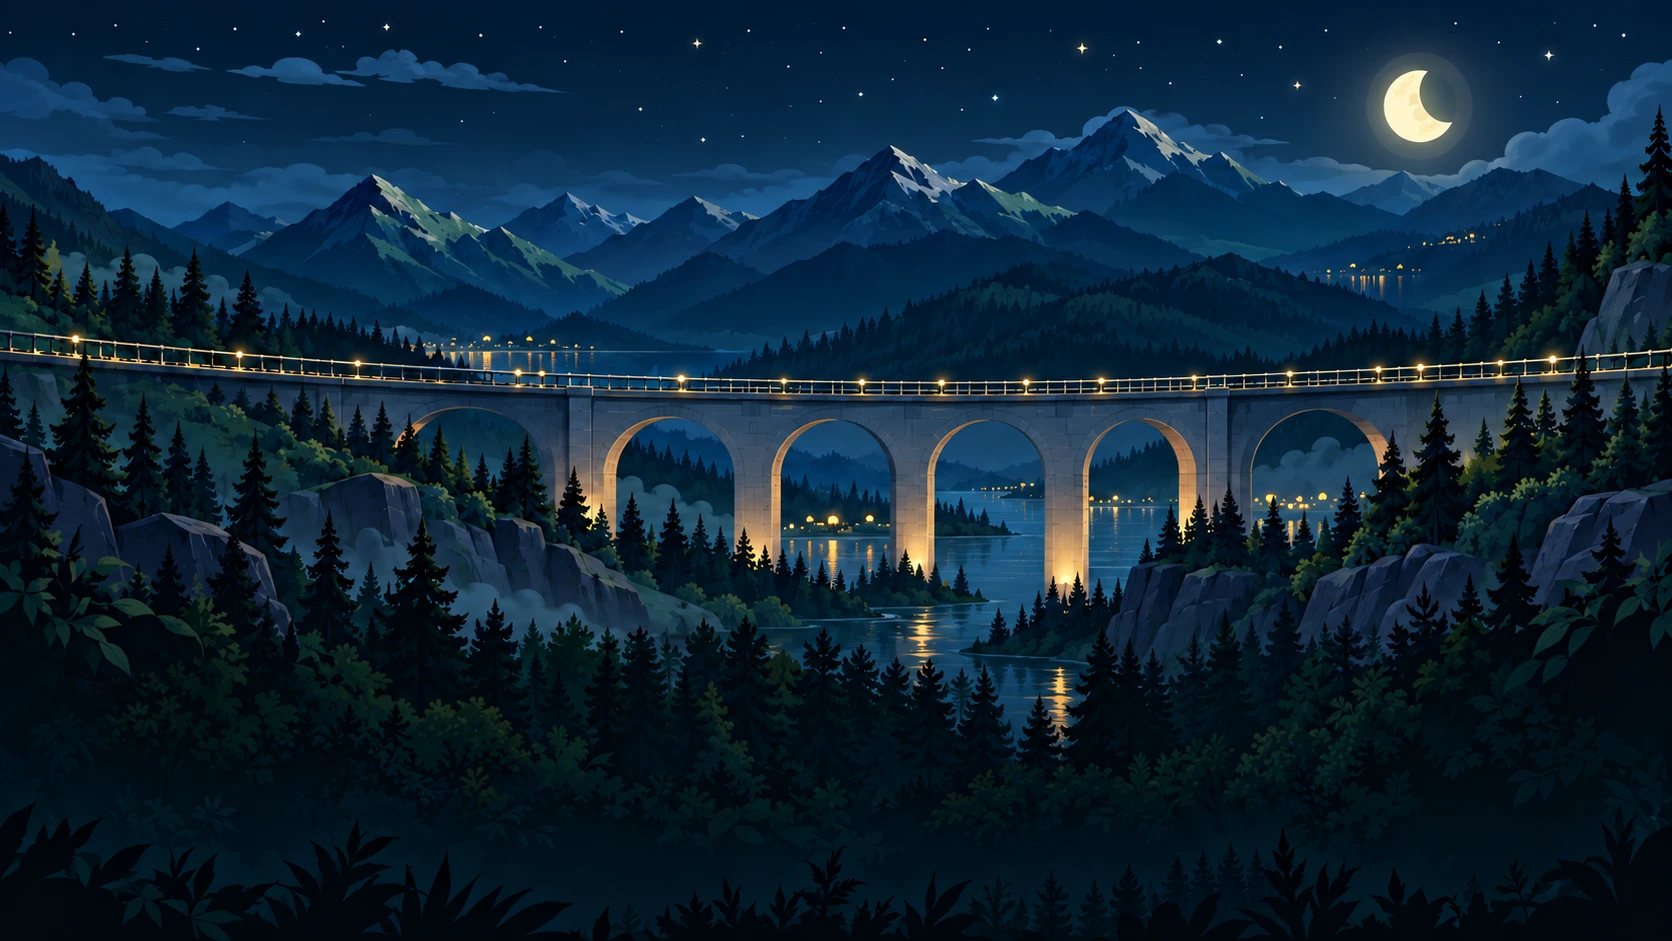
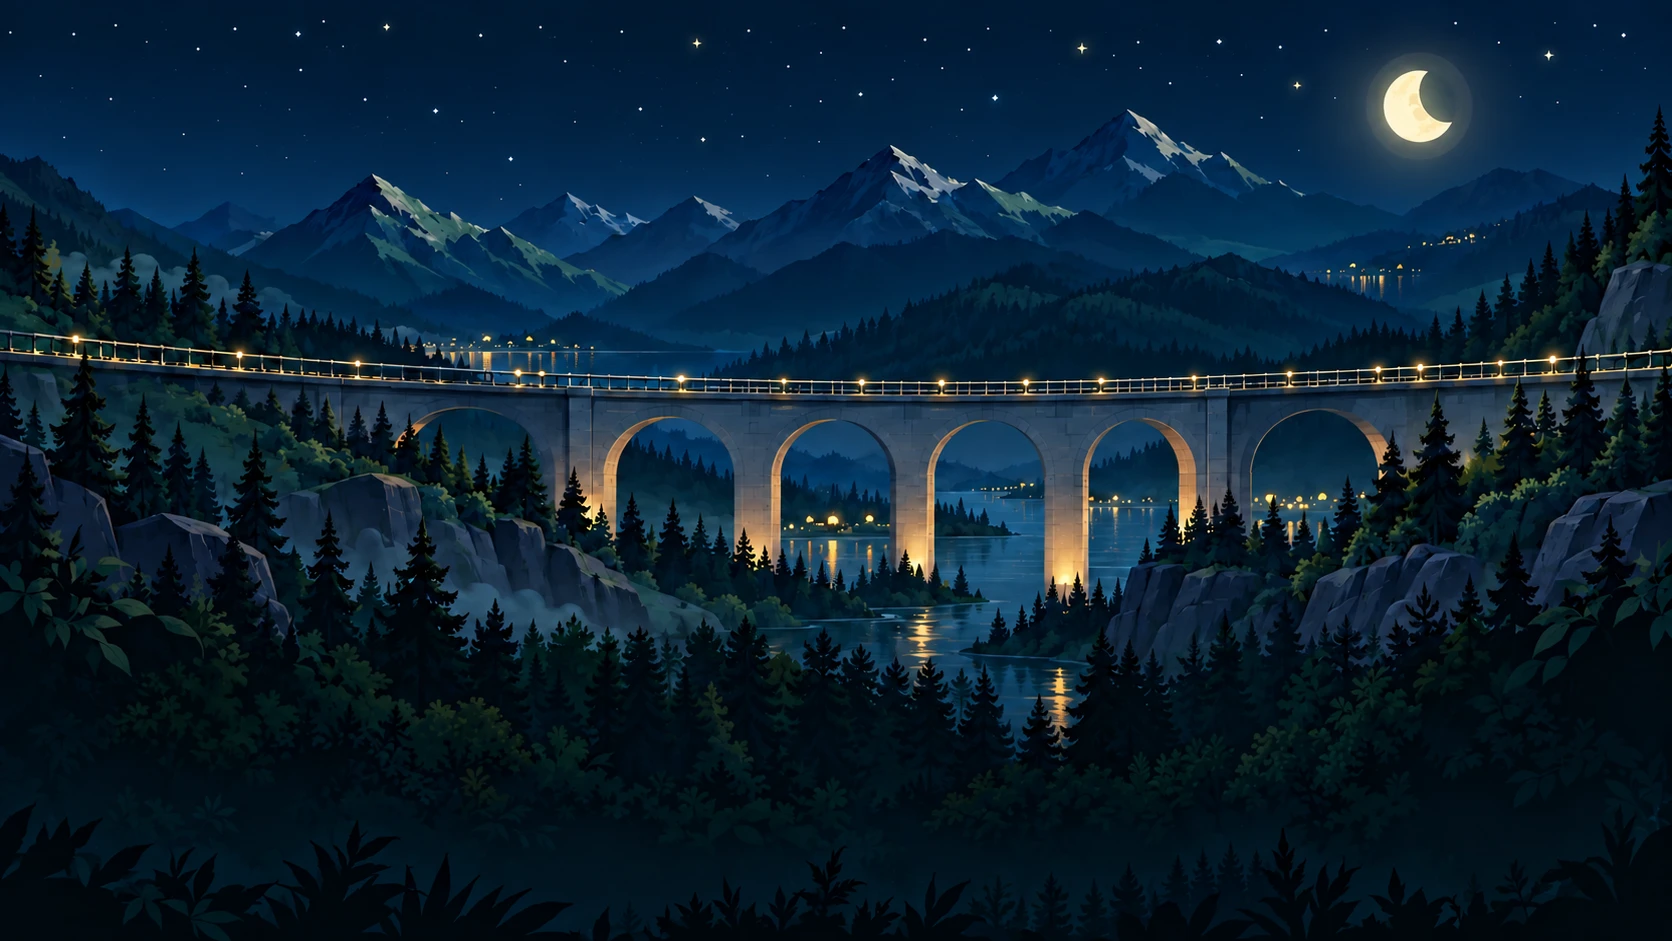
Remove unused portfolio assets and simplify README

diff --git a/transit.js b/transit.js
@@ -15,6 +15,14 @@
   const initialProgress = () => .8;
   const scale = 480 / 1100;
   const carEnds = [1100, 675, 360];
+  const carGeometry = cars.map(car => {
+    const art = car.querySelector('.train-car-art');
+    const [ax, ay] = art.dataset.bogieRear.split(',').map(Number);
+    const [bx, by] = art.dataset.bogieFront.split(',').map(Number);
+    const ux = bx - ax, uy = by - ay;
+    return { car, art, beam: car.querySelector('.train-headlight'), ax, ay, bx,
+      ux, uy, denominator: ux * ux + uy * uy, end: carEnds[Number(car.dataset.trainCar)] };
+  });
   let progress = initialProgress();
   let visible = !('IntersectionObserver' in window);
   let frame = null;
@@ -23,33 +31,27 @@
   const pointAt = distance => {
     const clamped = Math.max(0, Math.min(length, distance));
     const point = track.getPointAtLength(clamped);
+    if (distance === clamped) return point;
     const before = track.getPointAtLength(Math.max(0, clamped - 2));
     const after = track.getPointAtLength(Math.min(length, clamped + 2));
     const angle = Math.atan2(after.y - before.y, after.x - before.x);
     const extension = distance - clamped;
-    return { x: point.x + Math.cos(angle) * extension, y: point.y + Math.sin(angle) * extension, angle: angle * 180 / Math.PI };
+    return { x: point.x + Math.cos(angle) * extension, y: point.y + Math.sin(angle) * extension };
   };
   const draw = () => {
-    cars.forEach(car => {
-      const index = Number(car.dataset.trainCar);
-      const art = car.querySelector('.train-car-art');
-      const [ax, ay] = art.dataset.bogieRear.split(',').map(Number);
-      const [bx, by] = art.dataset.bogieFront.split(',').map(Number);
+    carGeometry.forEach(({ car, art, beam, ax, ay, bx, ux, uy, denominator, end }) => {
       const rear = pointAt(progress * length - (1100 - ax) * scale);
       const ahead = pointAt(progress * length - (1100 - bx) * scale);
-      const origin = pointAt(progress * length - (1100 - carEnds[index]) * scale);
+      const origin = pointAt(progress * length - (1100 - end) * scale);
       // Map the two bogie contact points onto the track. Each carriage follows
       // its own chord instead of swinging the entire train from its front tip.
-      const ux = bx - ax, uy = by - ay;
       const vx = ahead.x - rear.x, vy = ahead.y - rear.y;
-      const denominator = ux * ux + uy * uy;
       const a = (vx * ux + vy * uy) / denominator;
       const b = (vy * ux - vx * uy) / denominator;
       const e = rear.x - origin.x - a * ax + b * ay;
       const f = rear.y - origin.y - b * ax - a * ay;
       car.setAttribute('transform', `translate(${origin.x} ${origin.y})`);
       art.setAttribute('transform', `matrix(${a} ${b} ${-b} ${a} ${e} ${f})`);
-      const beam = car.querySelector('.train-headlight');
       beam?.setAttribute('transform', `rotate(${Math.atan2(vy, vx) * 180 / Math.PI})`);
     });
     const active = positions.findIndex(position => progress >= position - .025 && progress <= position + .15);

diff --git a/styles.css b/styles.css
@@ -83,7 +83,6 @@ h1 { font-size: clamp(36px, 5vw, 64px); font-weight: 500; line-height: 1.18; let
 @keyframes waterfront-drift { from { transform: translateX(-740px); } to { transform: translateX(1540px); } }
 @keyframes waterfront-bob { 0%, 100% { transform: translateY(0) rotate(-.15deg); } 50% { transform: translateY(1.4px) rotate(.15deg); } }
 
-.section-head { display: flex; align-items: baseline; gap: 20px; width: min(var(--max), 100%); margin: 0 auto 40px; padding-inline: 28px; }
 h2 { margin: 0; font-size: clamp(28px, 3vw, 32px); font-weight: 500; letter-spacing: -.8px; line-height: 1.2; }
 h3 { font-size: 22px; font-weight: 500; letter-spacing: -.3px; line-height: 1.35; margin: 0 0 14px; }
 .section-body p { margin: 0 0 12px; color: var(--muted); }
@@ -94,8 +93,6 @@ h3 { font-size: 22px; font-weight: 500; letter-spacing: -.3px; line-height: 1.35
 .media-copy { flex: 1; min-width: 0; }
 .media-images { flex: 0 0 var(--badge-size); width: var(--badge-size); padding: 11px; background: #10151a; border: 1px solid #30383e; }
 .media-image { width: 100%; height: auto; aspect-ratio: 1; object-fit: contain; filter: saturate(.9) brightness(.95); }
-.media-image.left { object-position: left center; }
-.year { font-family: var(--font-code); font-size: var(--detail-size); color: var(--muted); }
 .project-row { gap: 40px; padding: 48px 0; align-items: center; }
 .project-row .media-images.project { flex: 0 1 46%; width: 46%; padding: 0; background: #10151a; }
 .media-image.project { width: 100%; height: auto; aspect-ratio: auto; }
@@ -115,7 +112,6 @@ h3 { font-size: 22px; font-weight: 500; letter-spacing: -.3px; line-height: 1.35
   * { transition: none !important; }
 }
 /* A sunset harbor: real project links sit over the illustrated destinations. */
-.visually-hidden { position: absolute; width: 1px; height: 1px; padding: 0; margin: -1px; overflow: hidden; clip-path: inset(50%); white-space: nowrap; border: 0; }
 #projects.card, #background.card { padding-top: 0; }
 #projects.card { padding-bottom: 0; }
 .projects-enhanced > .project-panels { margin: 0; }

diff --git a/index.html b/index.html
@@ -176,12 +176,12 @@
               <clipPath id="train-rear-clip"><rect width="360" height="163"/></clipPath>
               <clipPath id="bridge-foreground"><path d="M0 355C430 402 1170 408 1672 367V941H0Z"/></clipPath>
             </defs>
-            <image class="transit-backdrop" href="images/education-alpine-v2.webp" width="1672" height="941"/>
+            <image class="transit-backdrop" href="images/education-alpine.webp" width="1672" height="941"/>
             <path id="transit-track" d="M0 350C430 397 1170 403 1672 362"/>
             <g class="transit-train" data-train-car="2" transform="translate(1017 386)"><g class="train-car-art" data-bogie-rear="52,148" data-bogie-front="290,151" clip-path="url(#train-rear-clip)" transform="matrix(.436 0 0 .436 -157 -66)"><image href="images/alpine-train.webp" width="1100" height="163"/></g></g>
             <g class="transit-train" data-train-car="1" transform="translate(1154 389)"><g class="train-car-art" data-bogie-rear="420,153" data-bogie-front="620,155" clip-path="url(#train-middle-clip)" transform="matrix(.436 0 0 .436 -294 -68)"><image href="images/alpine-train.webp" width="1100" height="163"/></g></g>
             <g class="transit-train" data-train-car="0" transform="translate(1340 383)"><g class="train-car-art" data-bogie-rear="740,157" data-bogie-front="997,160" clip-path="url(#train-front-clip)" transform="matrix(.436 0 0 .436 -480 -70)"><image href="images/alpine-train.webp" width="1100" height="163"/></g><path class="train-headlight" fill="url(#train-headlight)" d="M-10-21L92-35V3L-10-13Z"/></g>
-            <image href="images/education-alpine-v2.webp" width="1672" height="941" clip-path="url(#bridge-foreground)"/>
+            <image href="images/education-alpine.webp" width="1672" height="941" clip-path="url(#bridge-foreground)"/>
             <!-- A solid foreground parapet follows the track and conceals the wheels. -->
             <g class="bridge-ledge">
               <path fill="url(#bridge-ledge-stone)" d="M0 335C430 382 1170 388 1672 347V367C1170 408 430 402 0 355Z"/>

diff --git a/README.md b/README.md
@@ -1,27 +1,10 @@
 # Personal website
 
-Static HTML, CSS, and JavaScript. Serve the repository with a local HTTP server to preview it.
+My portfolio, built with HTML, CSS, and JavaScript.
 
-LinkedIn and GitHub links sit beneath the name, with recognizable inline SVG logos to the left of uppercase labels. They use compact white text, a subtle glow that brightens on hover or keyboard focus, and no button frames. Both open in new tabs with accessible labels and `noopener noreferrer`.
+[christopherwong.me](https://christopherwong.me)
 
-Desktop sections fill the available screen height below the sticky navigation. Each SVG panorama fills the full width through proportional cover scaling, cropping excess artwork instead of leaving side gaps. Vehicles, tracks, and foreground details scale together inside the same SVG. The welcome scene crops from the top to keep the yacht visible. All section arrows remain visible when navigating to a section. Text and controls scale with the scene width, and milestones sit above the final arrow even in short windows. Touch devices retain a 1280px panoramic canvas, initially scaled down to show the full page width, with unrestricted pinch zoom. Projects stay side by side, all four education/experience milestones remain over the forest, and no mobile camera panning or automatic label scrolling occurs.
+To preview locally, run `python -m http.server 4173` and open [localhost:4173](http://localhost:4173).
 
-The welcome yacht moves right at about 6.3 scene pixels per second while bobbing. It starts about one and a half boat lengths from the left on first load, fully exits on the right, and loops back in from offscreen left. Projects has a small painted plane flying from right to left with a gentle climb: a 22-second crossing and a 1-second gap, repeating every 23 seconds (slightly less often than the train). Flight endpoints follow the visible SVG crop, keeping the plane in the sky and limiting its offscreen time to under two seconds. The moonlit alpine railway retains its three-car train at the original speed, with each carriage following both wheel contacts on the track and milestones lighting as it passes. A static stone parapet follows the bridge curve in front of the train, hiding the wheels while keeping the carriage bodies visible. The name types when it enters view, followed by a blinking white square cursor. These animations pause offscreen, in hidden tabs, during project popups, and for reduced motion. Reduced motion hides the flying plane. Clouds, water, stars, and lights are painted into the backdrops; filtered duplicate scenery, resort yachts, section entrance effects have been removed. Navigation uses neutral frosted glass with a faint white tint, with a soft white glow on active and hovered links. Roboto Mono is used consistently for all website text and controls.
-
-Projects uses a subdued painted sunset resort panorama, matching the alpine scene's broader shapes and restrained highlights. Names, short functional descriptions, and translucent Learn more buttons sit beneath the three buildings in square blue glass cards with glowing ice-blue outlines. All project dialogs share the Travel Dashboard ice-blue accent, glass styling, and square controls. Cards use a plain glowing outline without corner ornaments. Inside dialogs, text has no surrounding frame or shadow, and only the project screenshot has a thin accent border and soft glow. Both scene titles use the original compact 28–32px heading size without decorative rules, and Projects has no subtitle. The buttons open the corresponding project dialogs and support keyboard activation. Without JavaScript or native dialog support, visible fragment links lead to the complete articles instead. The optimized backdrop is `images/projects-resort-subtle.webp`. The transparent plane is `images/resort-plane.webp`. Previous artwork remains available for reference.
-
-Education/Experience uses scalable gold emblems traced from the supplied reference for Wind Group, Brock University, and RBC, linked by a continuous thin gold timeline. The emblems sit in square translucent frames with a soft gold glow. As the train passes, icons retain a soft gold highlight and connecting lines progressively fill with light; the nearby icon glows brighter and its text shares the scene titles' subtle glow. The accumulated highlights gently reset when the train starts its next loop. Reduced motion shows a static highlight matching the train's position without transitions. Milestone text retains Roboto Mono and its existing size hierarchy; dates share the pale blue Projects text colour. Project dialog View project and Close controls use matching gold text, borders, glows, and focus outlines against the blue cards. The blinking name cursor shares the title's subtle glow.
-
-White double chevrons link from Home to Projects, Projects to Education/Experience, and the final scene back to Home. Copyright sits at the bottom left of the final scene, with no separate footer strip, divider, or trailing page gap.
-
-Project popups keep their desktop presentation, keyboard containment, focus restoration, scroll restoration, and Back/Forward behavior. Explicit open/close transitions remain. Complete project articles remain available without JavaScript or dialog support. No cookies or browser storage are required. Restricted history, older Safari media listeners, and suspended closing animations are supported.
-
-On desktop, the Projects SVG crops excess sky to expose the gym, house, and airport above their cards. Framing follows the window dimensions and card height; short desktop windows use more compact cards, with space above the final arrow. Cover scaling remains proportional and fills the frame. The plane route follows the reframed viewport. Touch devices keep the original Projects viewBox and card placement.
-
-## Checks
-
-- `node --test --test-isolation=none tests/projects.test.cjs`
-- `node tests/viewport.browser.cjs` with Playwright and Microsoft Edge available checks full-width proportionally cropped scenes and visible, clickable arrows at nine desktop viewport sizes, including ultrawide monitors and short browser windows.
-- `node tests/transit.browser.cjs` with Playwright available and Microsoft Edge installed. WebKit runs when installed; set `SITE_BROWSER=edge` or `SITE_BROWSER=webkit` to select an engine. The browser checks default to `http://127.0.0.1:4173`; set `SITE_URL` for another local preview. Screenshots default to `personal-website-review` in the system temporary directory; override with `TRANSIT_SCREENSHOT_DIR`.
-
-Browser coverage includes desktop viewport fitting and resizing, original artwork proportions at 320–900px phone viewports, initial overview scaling, unrestricted zoom metadata, actual project buttons, keyboard activation and focus restoration, touch project dialogs, the plane's direction/climb/loop gap and motion pausing, live boat motion, a full train loop with all six bogies aligned, reduced motion, arrow navigation, copyright placement inside the final scene, and usable no-JavaScript article links. Device emulation complements testing on a physical phone.
+Tests: `node --test --test-isolation=none tests/projects.test.cjs`.
+Browser checks: `node tests/transit.browser.cjs` and `node tests/viewport.browser.cjs` (Playwright and Edge).
